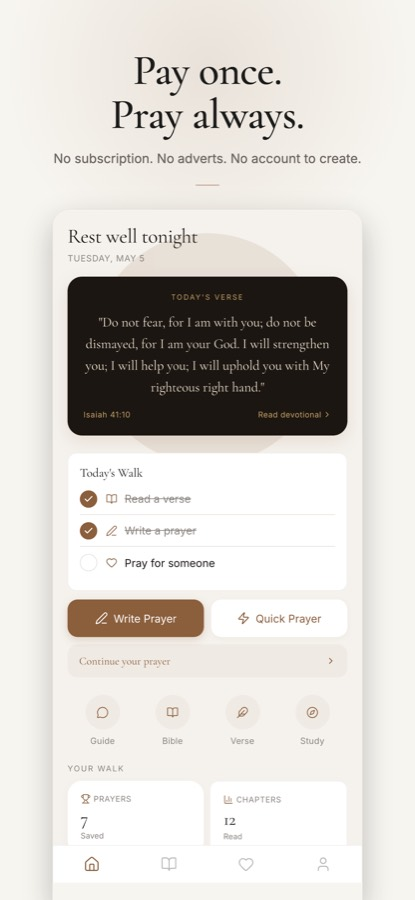
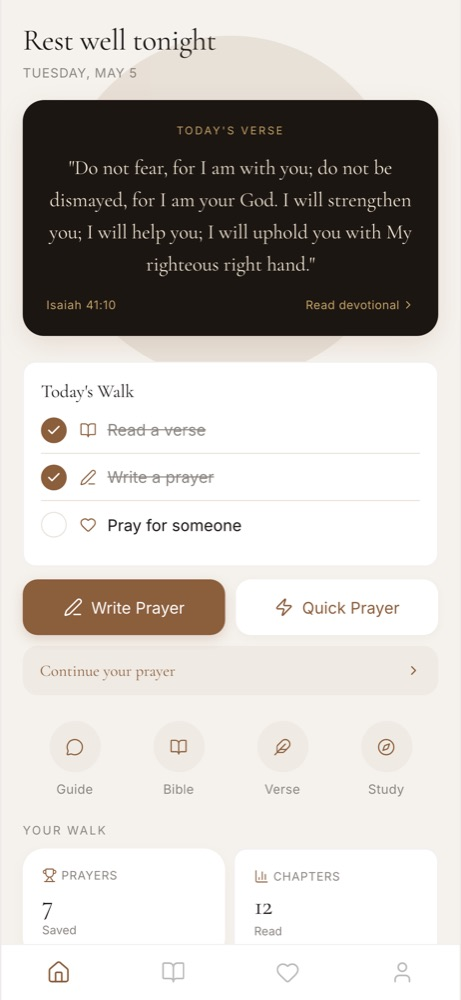
copy: rebuild the homepage, and point Android at the store
The Google Play button still said "coming soon" and linked nowhere, two
weeks after the app went live. Every Android visitor was being turned
away. Both badges now work and are sized to look equal, which needs the
Play one taller because Google bakes transparent padding into its artwork.

The page looked amateur for one reason: the screenshots were the App
Store ones, which already carry their own captions and phone frames. So
every image was a caption inside a caption and a phone inside a phone.
Now it uses the raw screenshots in a single clean frame, with alternating
rows instead of three sliced rectangles.

Also removed a screenshot of the donations screen, which still read
"Letter To God is — and always will be — completely free". True in May,
not true next to a £9.99 price. Checked the app itself: that copy is long
gone there, the screenshot was simply stale.

Claude-Session: https://claude.ai/code/session_01C8Zrm3iNrWGLqeFuN8ptot

diff --git a/docs/index.html b/docs/index.html
@@ -4,7 +4,7 @@
 <meta charset="UTF-8">
 <meta name="viewport" content="width=device-width, initial-scale=1.0">
 <title>Letter To God — a prayer companion you pay for once</title>
-<meta name="description" content="Write real prayers, read the whole Bible offline, and keep it all on your own phone. One payment, no subscription, no account, nothing collected about you.">
+<meta name="description" content="Write real prayers with gentle guidance. The whole Bible, offline. One payment, no subscription, no account, and nothing collected about you. On iPhone and Android.">
 <meta property="og:title" content="Letter To God">
 <meta property="og:description" content="A prayer companion you pay for once. No subscription, no account, nothing collected about you.">
 <meta property="og:type" content="website">
@@ -15,57 +15,66 @@
 <link href="https://fonts.googleapis.com/css2?family=Cormorant+Garamond:ital,wght@0,400;0,500;0,600;1,400&family=Inter:wght@400;500;600&display=swap" rel="stylesheet">
 <link rel="stylesheet" href="assets/site.css">
 <style>
-  .hero{text-align:center;padding:84px 0 0;
-        background:radial-gradient(1200px 560px at 50% -10%, #2b2618 0%, var(--bg) 62%)}
-  .hero h1{font-size:clamp(38px,6.4vw,64px);margin-bottom:18px}
-  .hero .lead{max-width:600px;margin:0 auto;color:var(--muted);font-size:19px;line-height:1.55}
-
-  /* Store badges. Official artwork, matched to the same optical height. */
-  .stores{display:flex;gap:14px;justify-content:center;align-items:center;
-          flex-wrap:wrap;margin-top:30px}
-  .stores a{display:block;transition:.2s}
+  /* ---- Hero: icon, promise, both badges, one phone shown properly ---- */
+  .hero{padding:68px 0 0;background:radial-gradient(1100px 620px at 50% -16%, #302a1c 0%, var(--bg) 64%)}
+  .hero .grid{display:grid;grid-template-columns:1.05fr .95fr;gap:52px;align-items:center}
+  .hero .appicon{width:72px;height:72px;border-radius:18px;
+                 box-shadow:0 14px 40px rgba(0,0,0,.5);margin-bottom:22px}
+  .hero h1{font-size:clamp(34px,4.6vw,52px);margin-bottom:18px}
+  .hero .lead{color:var(--muted);font-size:18px;line-height:1.58;max-width:30em}
+  .stores{display:flex;gap:12px;align-items:center;flex-wrap:wrap;margin-top:28px}
+  .stores a{display:block;transition:.18s}
   .stores a:hover{transform:translateY(-2px)}
-  .stores img{display:block;height:54px;width:auto}
-  .soon{display:inline-flex;flex-direction:column;justify-content:center;height:54px;
-        padding:0 20px;border:1px solid var(--line);border-radius:10px;
-        color:var(--muted);font-size:13px;line-height:1.3;text-align:left}
-  .soon b{color:var(--text);font-size:15px;font-weight:600}
-  .price{margin-top:20px;color:var(--muted);font-size:15px}
+  .stores img{display:block;height:52px;width:auto}
+  /* Google's badge ships with transparent padding baked in, so matching the
+     raw heights makes it look smaller than Apple's. Match what the eye sees. */
+  .stores img[src*="play-badge"]{height:62px;margin:-5px 0}
+  .price{margin-top:18px;color:var(--muted);font-size:15px}
   .price b{color:var(--gold-soft)}
 
-  .shotrow{display:flex;gap:26px;justify-content:center;align-items:flex-end;
-           margin-top:56px;padding-bottom:0}
-  .shotrow img{width:270px;border-radius:18px 18px 0 0;display:block;
-               box-shadow:0 -8px 60px rgba(0,0,0,.55)}
-  .shotrow img:nth-child(2){width:310px}
-  @media(max-width:860px){
-    .shotrow img:nth-child(1),.shotrow img:nth-child(3){display:none}
-    .shotrow img:nth-child(2){width:min(320px,80vw)}
+  /* A phone that looks like a phone, not a sliced rectangle. */
+  .phone{position:relative;margin:0 auto;width:min(300px,78vw)}
+  .phone .screen{width:100%;display:block;border-radius:30px;
+                 border:1px solid rgba(255,255,255,.10);
+                 box-shadow:0 30px 80px rgba(0,0,0,.6)}
+  @media(max-width:880px){
+    .hero{padding-top:52px}
+    .hero .grid{grid-template-columns:1fr;gap:36px;text-align:center}
+    .hero .lead{margin:0 auto}
+    .stores{justify-content:center}
+    .hero .appicon{margin-left:auto;margin-right:auto}
   }
 
-  .facts{display:grid;grid-template-columns:repeat(3,1fr);gap:24px;margin-top:8px}
-  .fact{text-align:center}
-  .fact .big{font-family:'Cormorant Garamond',serif;font-size:clamp(26px,3.4vw,34px);
-             font-weight:600;color:var(--gold-soft);line-height:1.15}
-  .fact p{margin-top:10px;font-size:15.5px}
-  @media(max-width:760px){.facts{grid-template-columns:1fr;gap:32px}}
+  /* ---- Three hard facts ---- */
+  .facts{display:grid;grid-template-columns:repeat(3,1fr);gap:28px}
+  .fact .big{font-family:'Cormorant Garamond',serif;font-size:clamp(25px,3.2vw,32px);
+             font-weight:600;color:var(--gold-soft);line-height:1.15;margin-bottom:10px}
+  .fact p{font-size:15.5px;margin:0}
+  @media(max-width:760px){.facts{grid-template-columns:1fr;gap:30px;text-align:center}}
 
-  .split{display:grid;grid-template-columns:1fr 1fr;gap:56px;align-items:center}
-  .split img{width:100%;max-width:310px;border-radius:20px;display:block;margin:0 auto;
-             box-shadow:0 20px 60px rgba(0,0,0,.5)}
-  .split h2{text-align:left;margin-bottom:16px}
-  @media(max-width:860px){.split{grid-template-columns:1fr;gap:32px}.split h2{text-align:center}
-                          .split .txt{text-align:center}}
+  /* ---- Alternating feature rows ---- */
+  .row{display:grid;grid-template-columns:1fr 1fr;gap:60px;align-items:center}
+  .row + .row{margin-top:84px}
+  .row.flip .txt{order:2}
+  .row h2{text-align:left;margin-bottom:14px;font-size:clamp(24px,3.4vw,33px)}
+  .row p{font-size:16.5px}
+  /* Not scoped to .row — the church band uses it outside one. */
+  .eyebrow{color:var(--gold);font-size:12px;letter-spacing:2px;
+           text-transform:uppercase;margin-bottom:10px}
+  @media(max-width:880px){
+    .row,.row.flip{grid-template-columns:1fr;gap:28px}
+    .row.flip .txt{order:0}
+    .row h2{text-align:center}.row .txt{text-align:center}
+  }
 
-  .church{background:linear-gradient(180deg,var(--bg2),#26221a);
+  .church{background:linear-gradient(180deg,var(--bg2),#272318);
           border-top:1px solid var(--line);border-bottom:1px solid var(--line)}
-  .flow{display:flex;align-items:center;justify-content:center;gap:8px;flex-wrap:wrap;margin:30px 0 8px}
+  .flow{display:flex;align-items:center;justify-content:center;gap:8px;flex-wrap:wrap;margin:28px 0 10px}
   .flow span{background:var(--surface);border:1px solid var(--line);border-radius:999px;
-             padding:9px 16px;font-size:14.5px;color:var(--text)}
+             padding:9px 17px;font-size:14.5px;color:var(--text)}
   .flow i{color:var(--gold);font-style:normal}
 
-  .cta{text-align:center}
-  .cta h2{margin-bottom:14px}
+  .closing{text-align:center}
 </style>
 </head>
 <body>
@@ -80,25 +89,28 @@
 </div></nav>
 
 <header class="hero"><div class="wrap">
-  <h1>Prayer that stays<br>between you and God</h1>
-  <p class="lead">
-    Write real prayers with gentle guidance. Read the whole Bible, offline.
-    Everything you write stays on your phone &mdash; there is no account to make,
-    and nothing about you is collected.
-  </p>
-
-  <div class="stores">
-    <a href="https://apps.apple.com/app/id6784824470" aria-label="Download on the App Store">
-      <img src="assets/appstore-badge.svg" alt="Download on the App Store">
-    </a>
-    <div class="soon"><span>Coming soon to</span><b>Google Play</b></div>
-  </div>
-  <p class="price">One payment. <b>No subscription, ever.</b></p>
-
-  <div class="shotrow">
-    <img src="assets/shots/02-bible.jpg" alt="The Bible, built into the app and working offline">
-    <img src="assets/shots/01-home.jpg" alt="The home screen, with today's verse">
-    <img src="assets/shots/03-review.jpg" alt="A finished prayer">
+  <div class="grid">
+    <div>
+      <img class="appicon" src="assets/icon.png" alt="Letter To God app icon">
+      <h1>Prayer that stays<br>between you and God</h1>
+      <p class="lead">
+        Write real prayers with gentle guidance. Read the whole Bible, offline.
+        Everything you write stays on your phone &mdash; there is no account to
+        make, and nothing about you is collected.
+      </p>
+      <div class="stores">
+        <a href="https://apps.apple.com/gb/app/letter-to-god-prayer-journal/id6784824470" aria-label="Download on the App Store">
+          <img src="assets/appstore-badge.svg" alt="Download on the App Store">
+        </a>
+        <a href="https://play.google.com/store/apps/details?id=com.lettertogod.app" aria-label="Get it on Google Play">
+          <img src="assets/play-badge.png" alt="Get it on Google Play">
+        </a>
+      </div>
+      <p class="price">One payment. <b>No subscription, ever.</b></p>
+    </div>
+    <div class="phone">
+      <img class="screen" src="assets/shots/01-home.jpg" alt="The Letter To God home screen, showing today's verse and today's walk">
+    </div>
   </div>
 </div></header>
 
@@ -114,68 +126,83 @@
     </div>
     <div class="fact">
       <div class="big">Works anywhere</div>
-      <p>The whole Berean Standard Bible is built in. No signal needed, on a train, on a plane, or in a hospital corridor.</p>
+      <p>The whole Bible is built in. No signal needed, on a train, on a plane, or in a hospital corridor.</p>
     </div>
   </div>
 </div></section>
 
 <section id="what"><div class="wrap">
-  <div class="split">
+  <div class="row">
     <div class="txt">
+      <div class="eyebrow">Guided prayer</div>
       <h2>Not sure how to start?</h2>
-      <p>Most of us aren&rsquo;t. The app walks you through it &mdash; who you&rsquo;re praying for,
-      what season you&rsquo;re in, what you want to say &mdash; and hands you back something
-      in your own words, with a verse that fits.</p>
+      <p>Most of us aren&rsquo;t. The app walks you through it &mdash; who you are
+      praying for, what season you are in, what you want to say &mdash; and hands
+      you back something in your own words, with a verse that fits.</p>
       <p>Or ignore all of it and write freely. Both are there.</p>
     </div>
-    <img src="assets/shots/03-review.jpg" alt="A completed prayer with its verse">
+    <div class="phone">
+      <img class="screen" src="assets/shots/03-review.jpg" alt="A finished prayer with its verses">
+    </div>
   </div>
-</div></section>
 
-<section><div class="wrap">
-  <div class="split">
-    <img src="assets/shots/05-devotional.jpg" alt="A daily devotional reading">
+  <div class="row flip">
     <div class="txt">
-      <h2>A verse every morning</h2>
-      <p>One verse a day, with a short note on where it comes from and what it meant
-      to the people who first heard it. Enough to carry with you, never a homework
-      assignment.</p>
-      <p>Read a chapter when you want more. All 1,189 of them are here.</p>
+      <div class="eyebrow">The whole Bible</div>
+      <h2>Two translations, no signal needed</h2>
+      <p>The Berean Standard Bible and the King James Version, all 66 books and
+      over 62,000 verses, on your device. Search it, browse it, read it anywhere.</p>
+    </div>
+    <div class="phone">
+      <img class="screen" src="assets/shots/04-bible.jpg" alt="Browsing the Bible inside the app">
+    </div>
+  </div>
+
+  <div class="row">
+    <div class="txt">
+      <div class="eyebrow">Every morning</div>
+      <h2>A verse, and what it meant</h2>
+      <p>One verse a day with a short note on where it comes from and what it
+      meant to the people who first heard it. Enough to carry with you, never a
+      homework assignment.</p>
+    </div>
+    <div class="phone">
+      <img class="screen" src="assets/shots/05-devotional.jpg" alt="The daily devotional">
     </div>
   </div>
 </div></section>
 
 <section id="church" class="church"><div class="wrap"><div class="narrow" style="text-align:center">
-  <div style="color:var(--gold);font-size:13px;letter-spacing:2px;text-transform:uppercase">Reading together</div>
-  <h2 style="text-align:center;margin-top:12px">Read with your church</h2>
-  <p>If your church joins, everyone sees the same chapter on the same day &mdash; and
-  the app works out what you have left to catch up on, from what you have actually
-  read.</p>
-
-  <div class="flow">
-    <span>Your church picks a plan</span><i>&rarr;</i>
-    <span>You read along</span><i>&rarr;</i>
-    <span>It counts towards them</span>
-  </div>
-
-  <p style="font-size:14.5px">
-    Free for the church, free for you, and nobody is asked for money.
-    They get posters and pew slips to print, and a page showing what the
-    congregation has read together.
-  </p>
-  <p style="margin-top:22px"><a href="churches/">How a church joins &rarr;</a></p>
+    <div class="txt">
+      <div class="eyebrow" style="text-align:center">Reading together</div>
+      <h2 style="text-align:center">Read with your church</h2>
+      <p>If your church joins, everyone sees the same chapter on the same day
+      &mdash; and the app works out what you have left to catch up on, from what
+      you have actually read.</p>
+      <div class="flow">
+        <span>Your church picks a plan</span><i>&rarr;</i>
+        <span>You read along</span><i>&rarr;</i>
+        <span>It counts towards them</span>
+      </div>
+      <p style="font-size:14.5px">Free for the church, free for you, and nobody is
+      asked for money. They get posters and pew slips to print, and a page showing
+      what the congregation has read together.</p>
+      <p style="margin-top:20px"><a href="churches/">How a church joins &rarr;</a></p>
+    </div>
 </div></div></section>
 
-<section class="cta"><div class="wrap"><div class="narrow">
+<section class="closing"><div class="wrap"><div class="narrow">
   <h2>Start tonight</h2>
   <p>One payment, and it&rsquo;s yours.</p>
-  <div class="stores" style="margin-top:24px">
-    <a href="https://apps.apple.com/app/id6784824470" aria-label="Download on the App Store">
+  <div class="stores" style="justify-content:center;margin-top:24px">
+    <a href="https://apps.apple.com/gb/app/letter-to-god-prayer-journal/id6784824470" aria-label="Download on the App Store">
       <img src="assets/appstore-badge.svg" alt="Download on the App Store">
     </a>
-    <div class="soon"><span>Coming soon to</span><b>Google Play</b></div>
+    <a href="https://play.google.com/store/apps/details?id=com.lettertogod.app" aria-label="Get it on Google Play">
+      <img src="assets/play-badge.png" alt="Get it on Google Play">
+    </a>
   </div>
-  <p class="muted" style="margin-top:30px;font-size:14.5px">
+  <p class="muted" style="margin-top:28px;font-size:14.5px">
     Questions? <a href="mailto:hello@letterstogodapp.org">hello@letterstogodapp.org</a>
     reaches a person, not a form.
   </p>
